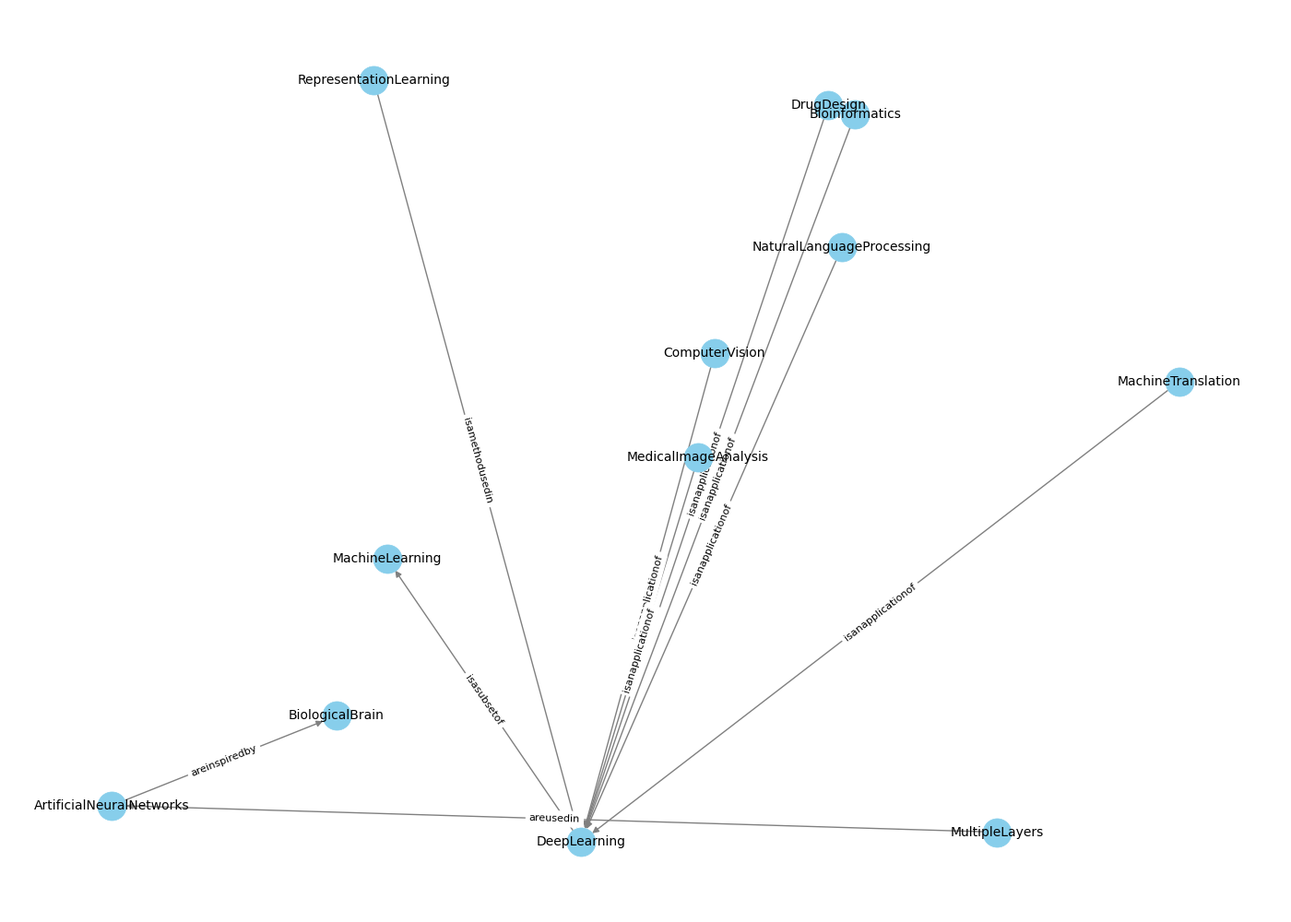
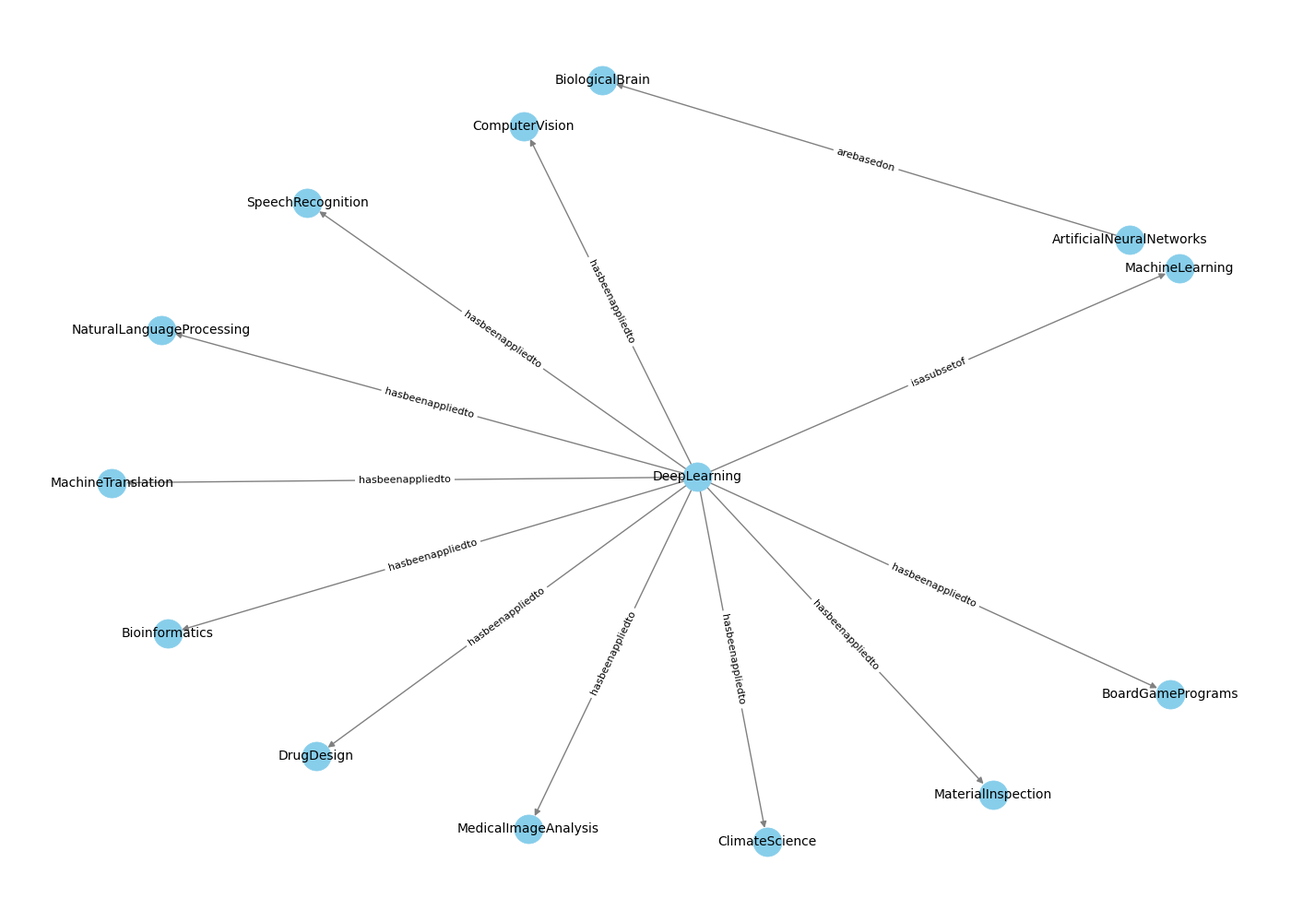
main working ready to show

diff --git a/KG/GPT/plots/knowledge_graph_extracted_text_from_mixtral-8x7b-instruct.html b/KG/GPT/plots/knowledge_graph_extracted_text_from_mixtral-8x7b-instruct.html
@@ -88,8 +88,8 @@
                   
 
                   // parsing and collecting nodes and edges from the python
-                  nodes = new vis.DataSet([{"color": "#97c2fc", "id": "Deeplearning", "label": "Deeplearning", "shape": "dot", "size": 10}, {"color": "#97c2fc", "id": "Machinelearningmethods", "label": "Machinelearningmethods", "shape": "dot", "size": 10}, {"color": "#97c2fc", "id": "ArtificialneuralnetworksANNs", "label": "ArtificialneuralnetworksANNs", "shape": "dot", "size": 10}, {"color": "#97c2fc", "id": "Multiplelayersinthenetwork", "label": "Multiplelayersinthenetwork", "shape": "dot", "size": 10}, {"color": "#97c2fc", "id": "Biologicalsystems", "label": "Biologicalsystems", "shape": "dot", "size": 10}, {"color": "#97c2fc", "id": "Biologicalbrains", "label": "Biologicalbrains", "shape": "dot", "size": 10}, {"color": "#97c2fc", "id": "Methodsusedindeeplearning", "label": "Methodsusedindeeplearning", "shape": "dot", "size": 10}, {"color": "#97c2fc", "id": "Supervised", "label": "Supervised", "shape": "dot", "size": 10}, {"color": "#97c2fc", "id": "Semisupervised", "label": "Semisupervised", "shape": "dot", "size": 10}, {"color": "#97c2fc", "id": "Unsupervised", "label": "Unsupervised", "shape": "dot", "size": 10}, {"color": "#97c2fc", "id": "Deeplearningarchitectures", "label": "Deeplearningarchitectures", "shape": "dot", "size": 10}, {"color": "#97c2fc", "id": "Computervision", "label": "Computervision", "shape": "dot", "size": 10}, {"color": "#97c2fc", "id": "Speechrecognition", "label": "Speechrecognition", "shape": "dot", "size": 10}, {"color": "#97c2fc", "id": "Naturallanguageprocessing", "label": "Naturallanguageprocessing", "shape": "dot", "size": 10}, {"color": "#97c2fc", "id": "Machinetranslation", "label": "Machinetranslation", "shape": "dot", "size": 10}, {"color": "#97c2fc", "id": "Bioinformatics", "label": "Bioinformatics", "shape": "dot", "size": 10}, {"color": "#97c2fc", "id": "Drugdesign", "label": "Drugdesign", "shape": "dot", "size": 10}, {"color": "#97c2fc", "id": "Medicalimageanalysis", "label": "Medicalimageanalysis", "shape": "dot", "size": 10}, {"color": "#97c2fc", "id": "Climatescience", "label": "Climatescience", "shape": "dot", "size": 10}, {"color": "#97c2fc", "id": "Materialinspection", "label": "Materialinspection", "shape": "dot", "size": 10}, {"color": "#97c2fc", "id": "Boardgameprograms", "label": "Boardgameprograms", "shape": "dot", "size": 10}, {"color": "#97c2fc", "id": "Artificialneuralnetworks", "label": "Artificialneuralnetworks", "shape": "dot", "size": 10}, {"color": "#97c2fc", "id": "Lowqualitymodelsforbrainfunction", "label": "Lowqualitymodelsforbrainfunction", "shape": "dot", "size": 10}]);
-                  edges = new vis.DataSet([{"from": "Deeplearning", "relation": "subsetof", "to": "Machinelearningmethods", "width": 1}, {"from": "Deeplearning", "relation": "basedon", "to": "ArtificialneuralnetworksANNs", "width": 1}, {"from": "Deeplearning", "relation": "uses", "to": "Multiplelayersinthenetwork", "width": 1}, {"from": "ArtificialneuralnetworksANNs", "relation": "inspiredby", "to": "Biologicalsystems", "width": 1}, {"from": "ArtificialneuralnetworksANNs", "relation": "havedifferencesfrom", "to": "Biologicalbrains", "width": 1}, {"from": "Methodsusedindeeplearning", "relation": "canbe", "to": "Supervised", "width": 1}, {"from": "Methodsusedindeeplearning", "relation": "canbe", "to": "Semisupervised", "width": 1}, {"from": "Methodsusedindeeplearning", "relation": "canbe", "to": "Unsupervised", "width": 1}, {"from": "Deeplearningarchitectures", "relation": "appliedto", "to": "Computervision", "width": 1}, {"from": "Deeplearningarchitectures", "relation": "appliedto", "to": "Speechrecognition", "width": 1}, {"from": "Deeplearningarchitectures", "relation": "appliedto", "to": "Naturallanguageprocessing", "width": 1}, {"from": "Deeplearningarchitectures", "relation": "appliedto", "to": "Machinetranslation", "width": 1}, {"from": "Deeplearningarchitectures", "relation": "appliedto", "to": "Bioinformatics", "width": 1}, {"from": "Deeplearningarchitectures", "relation": "appliedto", "to": "Drugdesign", "width": 1}, {"from": "Deeplearningarchitectures", "relation": "appliedto", "to": "Medicalimageanalysis", "width": 1}, {"from": "Deeplearningarchitectures", "relation": "appliedto", "to": "Climatescience", "width": 1}, {"from": "Deeplearningarchitectures", "relation": "appliedto", "to": "Materialinspection", "width": 1}, {"from": "Deeplearningarchitectures", "relation": "appliedto", "to": "Boardgameprograms", "width": 1}, {"from": "Artificialneuralnetworks", "relation": "seenas", "to": "Lowqualitymodelsforbrainfunction", "width": 1}]);
+                  nodes = new vis.DataSet([{"color": "#97c2fc", "id": "Deeplearning", "label": "Deeplearning", "shape": "dot", "size": 10}, {"color": "#97c2fc", "id": "Machinelearningmethods", "label": "Machinelearningmethods", "shape": "dot", "size": 10}, {"color": "#97c2fc", "id": "ArtificialneuralnetworksANNs", "label": "ArtificialneuralnetworksANNs", "shape": "dot", "size": 10}, {"color": "#97c2fc", "id": "Multiplelayersinthenetwork", "label": "Multiplelayersinthenetwork", "shape": "dot", "size": 10}, {"color": "#97c2fc", "id": "Artificialneuralnetworks", "label": "Artificialneuralnetworks", "shape": "dot", "size": 10}, {"color": "#97c2fc", "id": "Biologicalsystems", "label": "Biologicalsystems", "shape": "dot", "size": 10}, {"color": "#97c2fc", "id": "Biologicalbrains", "label": "Biologicalbrains", "shape": "dot", "size": 10}, {"color": "#97c2fc", "id": "Staticandsymbolic", "label": "Staticandsymbolic", "shape": "dot", "size": 10}, {"color": "#97c2fc", "id": "Lowqualitymodelsforbrainfunction", "label": "Lowqualitymodelsforbrainfunction", "shape": "dot", "size": 10}, {"color": "#97c2fc", "id": "Methodsusedindeeplearning", "label": "Methodsusedindeeplearning", "shape": "dot", "size": 10}, {"color": "#97c2fc", "id": "Supervised", "label": "Supervised", "shape": "dot", "size": 10}, {"color": "#97c2fc", "id": "Semisupervised", "label": "Semisupervised", "shape": "dot", "size": 10}, {"color": "#97c2fc", "id": "Unsupervised", "label": "Unsupervised", "shape": "dot", "size": 10}, {"color": "#97c2fc", "id": "Deeplearningarchitectures", "label": "Deeplearningarchitectures", "shape": "dot", "size": 10}, {"color": "#97c2fc", "id": "Deepneuralnetworks", "label": "Deepneuralnetworks", "shape": "dot", "size": 10}, {"color": "#97c2fc", "id": "Deepbeliefnetworks", "label": "Deepbeliefnetworks", "shape": "dot", "size": 10}, {"color": "#97c2fc", "id": "Recurrentneuralnetworks", "label": "Recurrentneuralnetworks", "shape": "dot", "size": 10}, {"color": "#97c2fc", "id": "Convolutionalneuralnetworks", "label": "Convolutionalneuralnetworks", "shape": "dot", "size": 10}, {"color": "#97c2fc", "id": "Transformers", "label": "Transformers", "shape": "dot", "size": 10}, {"color": "#97c2fc", "id": "Deeplearningapplications", "label": "Deeplearningapplications", "shape": "dot", "size": 10}, {"color": "#97c2fc", "id": "Computervision", "label": "Computervision", "shape": "dot", "size": 10}, {"color": "#97c2fc", "id": "Speechrecognition", "label": "Speechrecognition", "shape": "dot", "size": 10}, {"color": "#97c2fc", "id": "Naturallanguageprocessing", "label": "Naturallanguageprocessing", "shape": "dot", "size": 10}, {"color": "#97c2fc", "id": "Machinetranslation", "label": "Machinetranslation", "shape": "dot", "size": 10}, {"color": "#97c2fc", "id": "Bioinformatics", "label": "Bioinformatics", "shape": "dot", "size": 10}, {"color": "#97c2fc", "id": "Drugdesign", "label": "Drugdesign", "shape": "dot", "size": 10}, {"color": "#97c2fc", "id": "Medicalimageanalysis", "label": "Medicalimageanalysis", "shape": "dot", "size": 10}, {"color": "#97c2fc", "id": "Climatescience", "label": "Climatescience", "shape": "dot", "size": 10}, {"color": "#97c2fc", "id": "Materialinspection", "label": "Materialinspection", "shape": "dot", "size": 10}, {"color": "#97c2fc", "id": "Boardgameprograms", "label": "Boardgameprograms", "shape": "dot", "size": 10}, {"color": "#97c2fc", "id": "Biologicalbrain", "label": "Biologicalbrain", "shape": "dot", "size": 10}, {"color": "#97c2fc", "id": "isdynamicplasticandanalog", "label": "isdynamicplasticandanalog", "shape": "dot", "size": 10}]);
+                  edges = new vis.DataSet([{"from": "Deeplearning", "relation": "subsetof", "to": "Machinelearningmethods", "width": 1}, {"from": "Deeplearning", "relation": "basedon", "to": "ArtificialneuralnetworksANNs", "width": 1}, {"from": "Deeplearning", "relation": "uses", "to": "Multiplelayersinthenetwork", "width": 1}, {"from": "Artificialneuralnetworks", "relation": "inspiredby", "to": "Biologicalsystems", "width": 1}, {"from": "Artificialneuralnetworks", "relation": "havedifferencesfrom", "to": "Biologicalbrains", "width": 1}, {"from": "Artificialneuralnetworks", "relation": "tendtobe", "to": "Staticandsymbolic", "width": 1}, {"from": "Artificialneuralnetworks", "relation": "generallyseenas", "to": "Lowqualitymodelsforbrainfunction", "width": 1}, {"from": "Methodsusedindeeplearning", "relation": "canbe", "to": "Supervised", "width": 1}, {"from": "Methodsusedindeeplearning", "relation": "canbe", "to": "Semisupervised", "width": 1}, {"from": "Methodsusedindeeplearning", "relation": "canbe", "to": "Unsupervised", "width": 1}, {"from": "Deeplearningarchitectures", "relation": "include", "to": "Deepneuralnetworks", "width": 1}, {"from": "Deeplearningarchitectures", "relation": "include", "to": "Deepbeliefnetworks", "width": 1}, {"from": "Deeplearningarchitectures", "relation": "include", "to": "Recurrentneuralnetworks", "width": 1}, {"from": "Deeplearningarchitectures", "relation": "include", "to": "Convolutionalneuralnetworks", "width": 1}, {"from": "Deeplearningarchitectures", "relation": "include", "to": "Transformers", "width": 1}, {"from": "Deeplearningapplications", "relation": "include", "to": "Computervision", "width": 1}, {"from": "Deeplearningapplications", "relation": "include", "to": "Speechrecognition", "width": 1}, {"from": "Deeplearningapplications", "relation": "include", "to": "Naturallanguageprocessing", "width": 1}, {"from": "Deeplearningapplications", "relation": "include", "to": "Machinetranslation", "width": 1}, {"from": "Deeplearningapplications", "relation": "include", "to": "Bioinformatics", "width": 1}, {"from": "Deeplearningapplications", "relation": "include", "to": "Drugdesign", "width": 1}, {"from": "Deeplearningapplications", "relation": "include", "to": "Medicalimageanalysis", "width": 1}, {"from": "Deeplearningapplications", "relation": "include", "to": "Climatescience", "width": 1}, {"from": "Deeplearningapplications", "relation": "include", "to": "Materialinspection", "width": 1}, {"from": "Deeplearningapplications", "relation": "include", "to": "Boardgameprograms", "width": 1}, {"from": "Biologicalbrain", "relation": "ofmostlivingorganisms", "to": "isdynamicplasticandanalog", "width": 1}]);
 
                   nodeColors = {};
                   allNodes = nodes.get({ returnType: "Object" });

diff --git a/KG/GPT/plots/knowledge_graph_extracted_text_from_vicuna-13b.html b/KG/GPT/plots/knowledge_graph_extracted_text_from_vicuna-13b.html
@@ -88,8 +88,8 @@
                   
 
                   // parsing and collecting nodes and edges from the python
-                  nodes = new vis.DataSet([{"color": "#97c2fc", "id": "Deeplearningdeeplearning", "label": "Deeplearningdeeplearning", "shape": "dot", "size": 10}, {"color": "#97c2fc", "id": "machinelearningmethods", "label": "machinelearningmethods", "shape": "dot", "size": 10}, {"color": "#97c2fc", "id": "machinelearningmethodsmachinelearningmethods", "label": "machinelearningmethodsmachinelearningmethods", "shape": "dot", "size": 10}, {"color": "#97c2fc", "id": "basedonartificialneuralnetworksANNs", "label": "basedonartificialneuralnetworksANNs", "shape": "dot", "size": 10}, {"color": "#97c2fc", "id": "deepneuralnetworksdeepneuralnetworks", "label": "deepneuralnetworksdeepneuralnetworks", "shape": "dot", "size": 10}, {"color": "#97c2fc", "id": "deeplearningarchitectures", "label": "deeplearningarchitectures", "shape": "dot", "size": 10}, {"color": "#97c2fc", "id": "deepbeliefnetworksdeepbeliefnetworks", "label": "deepbeliefnetworksdeepbeliefnetworks", "shape": "dot", "size": 10}, {"color": "#97c2fc", "id": "recurrentneuralnetworksrecurrentneuralnetworks", "label": "recurrentneuralnetworksrecurrentneuralnetworks", "shape": "dot", "size": 10}, {"color": "#97c2fc", "id": "convolutionalneuralnetworksconvolutionalneuralnetworks", "label": "convolutionalneuralnetworksconvolutionalneuralnetworks", "shape": "dot", "size": 10}, {"color": "#97c2fc", "id": "transformerstransformers", "label": "transformerstransformers", "shape": "dot", "size": 10}, {"color": "#97c2fc", "id": "computervisioncomputervision", "label": "computervisioncomputervision", "shape": "dot", "size": 10}, {"color": "#97c2fc", "id": "speechrecognitionspeechrecognition", "label": "speechrecognitionspeechrecognition", "shape": "dot", "size": 10}, {"color": "#97c2fc", "id": "naturallanguageprocessingnaturallanguageprocessing", "label": "naturallanguageprocessingnaturallanguageprocessing", "shape": "dot", "size": 10}, {"color": "#97c2fc", "id": "machinetranslationmachinetranslation", "label": "machinetranslationmachinetranslation", "shape": "dot", "size": 10}, {"color": "#97c2fc", "id": "bioinformaticsbioinformatics", "label": "bioinformaticsbioinformatics", "shape": "dot", "size": 10}, {"color": "#97c2fc", "id": "drugdesigndrugdesign", "label": "drugdesigndrugdesign", "shape": "dot", "size": 10}, {"color": "#97c2fc", "id": "medicalimageanalysismedicalimageanalysis", "label": "medicalimageanalysismedicalimageanalysis", "shape": "dot", "size": 10}, {"color": "#97c2fc", "id": "climatescienceclimatescience", "label": "climatescienceclimatescience", "shape": "dot", "size": 10}, {"color": "#97c2fc", "id": "materialinspectionmaterialinspection", "label": "materialinspectionmaterialinspection", "shape": "dot", "size": 10}, {"color": "#97c2fc", "id": "boardgameprogramsboardgameprograms", "label": "boardgameprogramsboardgameprograms", "shape": "dot", "size": 10}, {"color": "#97c2fc", "id": "biologicalsystemsbiologicalsystems", "label": "biologicalsystemsbiologicalsystems", "shape": "dot", "size": 10}, {"color": "#97c2fc", "id": "artificialneuralnetworks", "label": "artificialneuralnetworks", "shape": "dot", "size": 10}, {"color": "#97c2fc", "id": "ANNsartificialneuralnetworksANNs", "label": "ANNsartificialneuralnetworksANNs", "shape": "dot", "size": 10}, {"color": "#97c2fc", "id": "staticandsymbolic", "label": "staticandsymbolic", "shape": "dot", "size": 10}, {"color": "#97c2fc", "id": "lowqualitymodelsforbrainfunction", "label": "lowqualitymodelsforbrainfunction", "shape": "dot", "size": 10}, {"color": "#97c2fc", "id": "biologicalbrainbiologicalbrain", "label": "biologicalbrainbiologicalbrain", "shape": "dot", "size": 10}, {"color": "#97c2fc", "id": "isdynamicplasticandanalog", "label": "isdynamicplasticandanalog", "shape": "dot", "size": 10}]);
-                  edges = new vis.DataSet([{"from": "Deeplearningdeeplearning", "relation": "isasubsetof", "to": "machinelearningmethods", "width": 1}, {"from": "machinelearningmethodsmachinelearningmethods", "relation": "haverepresentationlearning", "to": "basedonartificialneuralnetworksANNs", "width": 1}, {"from": "deepneuralnetworksdeepneuralnetworks", "relation": "areatypeof", "to": "deeplearningarchitectures", "width": 1}, {"from": "deepbeliefnetworksdeepbeliefnetworks", "relation": "areatypeof", "to": "deeplearningarchitectures", "width": 1}, {"from": "recurrentneuralnetworksrecurrentneuralnetworks", "relation": "areatypeof", "to": "deeplearningarchitectures", "width": 1}, {"from": "convolutionalneuralnetworksconvolutionalneuralnetworks", "relation": "areatypeof", "to": "deeplearningarchitectures", "width": 1}, {"from": "transformerstransformers", "relation": "areatypeof", "to": "deeplearningarchitectures", "width": 1}, {"from": "computervisioncomputervision", "relation": "hasbeenappliedto", "to": "deeplearningarchitectures", "width": 1}, {"from": "speechrecognitionspeechrecognition", "relation": "hasbeenappliedto", "to": "deeplearningarchitectures", "width": 1}, {"from": "naturallanguageprocessingnaturallanguageprocessing", "relation": "hasbeenappliedto", "to": "deeplearningarchitectures", "width": 1}, {"from": "machinetranslationmachinetranslation", "relation": "hasbeenappliedto", "to": "deeplearningarchitectures", "width": 1}, {"from": "bioinformaticsbioinformatics", "relation": "hasbeenappliedto", "to": "deeplearningarchitectures", "width": 1}, {"from": "drugdesigndrugdesign", "relation": "hasbeenappliedto", "to": "deeplearningarchitectures", "width": 1}, {"from": "medicalimageanalysismedicalimageanalysis", "relation": "hasbeenappliedto", "to": "deeplearningarchitectures", "width": 1}, {"from": "climatescienceclimatescience", "relation": "hasbeenappliedto", "to": "deeplearningarchitectures", "width": 1}, {"from": "materialinspectionmaterialinspection", "relation": "hasbeenappliedto", "to": "deeplearningarchitectures", "width": 1}, {"from": "boardgameprogramsboardgameprograms", "relation": "havebeenappliedto", "to": "deeplearningarchitectures", "width": 1}, {"from": "biologicalsystemsbiologicalsystems", "relation": "inspired", "to": "artificialneuralnetworks", "width": 1}, {"from": "ANNsartificialneuralnetworksANNs", "relation": "tendtobe", "to": "staticandsymbolic", "width": 1}, {"from": "ANNsartificialneuralnetworksANNs", "relation": "aregenerallyseenas", "to": "lowqualitymodelsforbrainfunction", "width": 1}, {"from": "biologicalbrainbiologicalbrain", "relation": "ofmostlivingorganisms", "to": "isdynamicplasticandanalog", "width": 1}]);
+                  nodes = new vis.DataSet([{"color": "#97c2fc", "id": "Deeplearningorganization", "label": "Deeplearningorganization", "shape": "dot", "size": 10}, {"color": "#97c2fc", "id": "machinelearning", "label": "machinelearning", "shape": "dot", "size": 10}, {"color": "#97c2fc", "id": "Deeplearningmethod", "label": "Deeplearningmethod", "shape": "dot", "size": 10}, {"color": "#97c2fc", "id": "artificialneuralnetworks", "label": "artificialneuralnetworks", "shape": "dot", "size": 10}, {"color": "#97c2fc", "id": "humanexpertperformance", "label": "humanexpertperformance", "shape": "dot", "size": 10}, {"color": "#97c2fc", "id": "Artificialneuralnetworkswereinspiredby", "label": "Artificialneuralnetworkswereinspiredby", "shape": "dot", "size": 10}, {"color": "#97c2fc", "id": "biologicalsystems", "label": "biologicalsystems", "shape": "dot", "size": 10}, {"color": "#97c2fc", "id": "Artificialneuralnetworksaregenerallyseenas", "label": "Artificialneuralnetworksaregenerallyseenas", "shape": "dot", "size": 10}, {"color": "#97c2fc", "id": "brainfunction", "label": "brainfunction", "shape": "dot", "size": 10}]);
+                  edges = new vis.DataSet([{"from": "Deeplearningorganization", "relation": "isasubsetof", "to": "machinelearning", "width": 1}, {"from": "Deeplearningmethod", "relation": "isbasedon", "to": "artificialneuralnetworks", "width": 1}, {"from": "Deeplearningmethod", "relation": "hasproducedresultscomparabletoandinsomecasessurpassing", "to": "humanexpertperformance", "width": 1}, {"from": "Artificialneuralnetworkswereinspiredby", "relation": "informationprocessinganddistributedcommunicationnodesin", "to": "biologicalsystems", "width": 1}, {"from": "Artificialneuralnetworksaregenerallyseenas", "relation": "lowqualitymodelsfor", "to": "brainfunction", "width": 1}]);
 
                   nodeColors = {};
                   allNodes = nodes.get({ returnType: "Object" });

diff --git a/KG/GPT/plots/knowledge_graph_extracted_text_from_llama-70b-chat.html b/KG/GPT/plots/knowledge_graph_extracted_text_from_llama-70b-chat.html
@@ -88,8 +88,8 @@
                   
 
                   // parsing and collecting nodes and edges from the python
-                  nodes = new vis.DataSet([{"color": "#97c2fc", "id": "Deeplearning", "label": "Deeplearning", "shape": "dot", "size": 10}, {"color": "#97c2fc", "id": "machinelearning", "label": "machinelearning", "shape": "dot", "size": 10}, {"color": "#97c2fc", "id": "Artificialneuralnetworks", "label": "Artificialneuralnetworks", "shape": "dot", "size": 10}, {"color": "#97c2fc", "id": "biologicalsystems", "label": "biologicalsystems", "shape": "dot", "size": 10}, {"color": "#97c2fc", "id": "Deepneuralnetworks", "label": "Deepneuralnetworks", "shape": "dot", "size": 10}, {"color": "#97c2fc", "id": "deeplearning", "label": "deeplearning", "shape": "dot", "size": 10}, {"color": "#97c2fc", "id": "Recurrentneuralnetworks", "label": "Recurrentneuralnetworks", "shape": "dot", "size": 10}, {"color": "#97c2fc", "id": "Convolutionalneuralnetworks", "label": "Convolutionalneuralnetworks", "shape": "dot", "size": 10}, {"color": "#97c2fc", "id": "Transformers", "label": "Transformers", "shape": "dot", "size": 10}, {"color": "#97c2fc", "id": "Computervision", "label": "Computervision", "shape": "dot", "size": 10}, {"color": "#97c2fc", "id": "Speechrecognition", "label": "Speechrecognition", "shape": "dot", "size": 10}, {"color": "#97c2fc", "id": "Naturallanguageprocessing", "label": "Naturallanguageprocessing", "shape": "dot", "size": 10}, {"color": "#97c2fc", "id": "Machinetranslation", "label": "Machinetranslation", "shape": "dot", "size": 10}, {"color": "#97c2fc", "id": "Bioinformatics", "label": "Bioinformatics", "shape": "dot", "size": 10}, {"color": "#97c2fc", "id": "Drugdesign", "label": "Drugdesign", "shape": "dot", "size": 10}, {"color": "#97c2fc", "id": "Medicalimageanalysis", "label": "Medicalimageanalysis", "shape": "dot", "size": 10}, {"color": "#97c2fc", "id": "Climatescience", "label": "Climatescience", "shape": "dot", "size": 10}, {"color": "#97c2fc", "id": "Materialinspection", "label": "Materialinspection", "shape": "dot", "size": 10}, {"color": "#97c2fc", "id": "Boardgameprograms", "label": "Boardgameprograms", "shape": "dot", "size": 10}]);
-                  edges = new vis.DataSet([{"from": "Deeplearning", "relation": "isasubsetof", "to": "machinelearning", "width": 1}, {"from": "Artificialneuralnetworks", "relation": "inspiredby", "to": "biologicalsystems", "width": 1}, {"from": "Deepneuralnetworks", "relation": "isatypeof", "to": "deeplearning", "width": 1}, {"from": "Recurrentneuralnetworks", "relation": "isatypeof", "to": "deeplearning", "width": 1}, {"from": "Convolutionalneuralnetworks", "relation": "isatypeof", "to": "deeplearning", "width": 1}, {"from": "Transformers", "relation": "isatypeof", "to": "deeplearning", "width": 1}, {"from": "Computervision", "relation": "hasbeenappliedto", "to": "deeplearning", "width": 1}, {"from": "Speechrecognition", "relation": "hasbeenappliedto", "to": "deeplearning", "width": 1}, {"from": "Naturallanguageprocessing", "relation": "hasbeenappliedto", "to": "deeplearning", "width": 1}, {"from": "Machinetranslation", "relation": "hasbeenappliedto", "to": "deeplearning", "width": 1}, {"from": "Bioinformatics", "relation": "hasbeenappliedto", "to": "deeplearning", "width": 1}, {"from": "Drugdesign", "relation": "hasbeenappliedto", "to": "deeplearning", "width": 1}, {"from": "Medicalimageanalysis", "relation": "hasbeenappliedto", "to": "deeplearning", "width": 1}, {"from": "Climatescience", "relation": "hasbeenappliedto", "to": "deeplearning", "width": 1}, {"from": "Materialinspection", "relation": "hasbeenappliedto", "to": "deeplearning", "width": 1}, {"from": "Boardgameprograms", "relation": "hasbeenappliedto", "to": "deeplearning", "width": 1}]);
+                  nodes = new vis.DataSet([{"color": "#97c2fc", "id": "HerearetheextractedtriplesformattedasnamedentityA", "label": "HerearetheextractedtriplesformattedasnamedentityA", "shape": "dot", "size": 10}, {"color": "#97c2fc", "id": "namedentityBbasedontheprovidedtestimony", "label": "namedentityBbasedontheprovidedtestimony", "shape": "dot", "size": 10}, {"color": "#97c2fc", "id": "Deeplearning", "label": "Deeplearning", "shape": "dot", "size": 10}, {"color": "#97c2fc", "id": "machinelearning", "label": "machinelearning", "shape": "dot", "size": 10}, {"color": "#97c2fc", "id": "Artificialneuralnetworks", "label": "Artificialneuralnetworks", "shape": "dot", "size": 10}, {"color": "#97c2fc", "id": "biologicalsystems", "label": "biologicalsystems", "shape": "dot", "size": 10}, {"color": "#97c2fc", "id": "lowqualitymodelsforbrainfunction", "label": "lowqualitymodelsforbrainfunction", "shape": "dot", "size": 10}, {"color": "#97c2fc", "id": "Deepneuralnetworks", "label": "Deepneuralnetworks", "shape": "dot", "size": 10}, {"color": "#97c2fc", "id": "computervision", "label": "computervision", "shape": "dot", "size": 10}, {"color": "#97c2fc", "id": "Recurrentneuralnetworks", "label": "Recurrentneuralnetworks", "shape": "dot", "size": 10}, {"color": "#97c2fc", "id": "speechrecognition", "label": "speechrecognition", "shape": "dot", "size": 10}, {"color": "#97c2fc", "id": "Convolutionalneuralnetworks", "label": "Convolutionalneuralnetworks", "shape": "dot", "size": 10}, {"color": "#97c2fc", "id": "naturallanguageprocessing", "label": "naturallanguageprocessing", "shape": "dot", "size": 10}, {"color": "#97c2fc", "id": "Transformers", "label": "Transformers", "shape": "dot", "size": 10}, {"color": "#97c2fc", "id": "machinetranslation", "label": "machinetranslation", "shape": "dot", "size": 10}, {"color": "#97c2fc", "id": "Bioinformatics", "label": "Bioinformatics", "shape": "dot", "size": 10}, {"color": "#97c2fc", "id": "drugdesign", "label": "drugdesign", "shape": "dot", "size": 10}, {"color": "#97c2fc", "id": "Medicalimageanalysis", "label": "Medicalimageanalysis", "shape": "dot", "size": 10}, {"color": "#97c2fc", "id": "climatescience", "label": "climatescience", "shape": "dot", "size": 10}, {"color": "#97c2fc", "id": "Materialinspection", "label": "Materialinspection", "shape": "dot", "size": 10}, {"color": "#97c2fc", "id": "boardgameprograms", "label": "boardgameprograms", "shape": "dot", "size": 10}]);
+                  edges = new vis.DataSet([{"from": "HerearetheextractedtriplesformattedasnamedentityA", "relation": "relation", "to": "namedentityBbasedontheprovidedtestimony", "width": 1}, {"from": "Deeplearning", "relation": "isasubsetof", "to": "machinelearning", "width": 1}, {"from": "Artificialneuralnetworks", "relation": "inspiredby", "to": "biologicalsystems", "width": 1}, {"from": "Artificialneuralnetworks", "relation": "aregenerallyseenas", "to": "lowqualitymodelsforbrainfunction", "width": 1}, {"from": "Deepneuralnetworks", "relation": "havebeenappliedto", "to": "computervision", "width": 1}, {"from": "Recurrentneuralnetworks", "relation": "havebeenappliedto", "to": "speechrecognition", "width": 1}, {"from": "Convolutionalneuralnetworks", "relation": "havebeenappliedto", "to": "naturallanguageprocessing", "width": 1}, {"from": "Transformers", "relation": "havebeenappliedto", "to": "machinetranslation", "width": 1}, {"from": "Bioinformatics", "relation": "havebeenappliedto", "to": "drugdesign", "width": 1}, {"from": "Medicalimageanalysis", "relation": "havebeenappliedto", "to": "climatescience", "width": 1}, {"from": "Materialinspection", "relation": "havebeenappliedto", "to": "boardgameprograms", "width": 1}]);
 
                   nodeColors = {};
                   allNodes = nodes.get({ returnType: "Object" });

diff --git a/KG/GPT/plots/knowledge_graph_extracted_text_from_mistral-7b-instruct.html b/KG/GPT/plots/knowledge_graph_extracted_text_from_mistral-7b-instruct.html
@@ -88,8 +88,8 @@
                   
 
                   // parsing and collecting nodes and edges from the python
-                  nodes = new vis.DataSet([{"color": "#97c2fc", "id": "Deeplearning", "label": "Deeplearning", "shape": "dot", "size": 10}, {"color": "#97c2fc", "id": "Machinelearningmethods", "label": "Machinelearningmethods", "shape": "dot", "size": 10}, {"color": "#97c2fc", "id": "Artificialneuralnetworks", "label": "Artificialneuralnetworks", "shape": "dot", "size": 10}, {"color": "#97c2fc", "id": "Computervision", "label": "Computervision", "shape": "dot", "size": 10}, {"color": "#97c2fc", "id": "Speechrecognition", "label": "Speechrecognition", "shape": "dot", "size": 10}, {"color": "#97c2fc", "id": "Naturallanguageprocessing", "label": "Naturallanguageprocessing", "shape": "dot", "size": 10}, {"color": "#97c2fc", "id": "Machinetranslation", "label": "Machinetranslation", "shape": "dot", "size": 10}, {"color": "#97c2fc", "id": "Bioinformatics", "label": "Bioinformatics", "shape": "dot", "size": 10}, {"color": "#97c2fc", "id": "Drugdesign", "label": "Drugdesign", "shape": "dot", "size": 10}, {"color": "#97c2fc", "id": "Medicalimageanalysis", "label": "Medicalimageanalysis", "shape": "dot", "size": 10}, {"color": "#97c2fc", "id": "Climatescience", "label": "Climatescience", "shape": "dot", "size": 10}, {"color": "#97c2fc", "id": "Materialinspection", "label": "Materialinspection", "shape": "dot", "size": 10}, {"color": "#97c2fc", "id": "Boardgameprograms", "label": "Boardgameprograms", "shape": "dot", "size": 10}, {"color": "#97c2fc", "id": "Biologicalsystems", "label": "Biologicalsystems", "shape": "dot", "size": 10}, {"color": "#97c2fc", "id": "Biologicalbrains", "label": "Biologicalbrains", "shape": "dot", "size": 10}, {"color": "#97c2fc", "id": "Lowqualitymodelsforbrainfunction", "label": "Lowqualitymodelsforbrainfunction", "shape": "dot", "size": 10}]);
-                  edges = new vis.DataSet([{"from": "Deeplearning", "relation": "isasubsetof", "to": "Machinelearningmethods", "width": 1}, {"from": "Deeplearning", "relation": "uses", "to": "Artificialneuralnetworks", "width": 1}, {"from": "Deeplearning", "relation": "hasproducedresultscomparabletoorsurpassinghumanexpertperformancein", "to": "Computervision", "width": 1}, {"from": "Deeplearning", "relation": "hasproducedresultscomparabletoorsurpassinghumanexpertperformancein", "to": "Speechrecognition", "width": 1}, {"from": "Deeplearning", "relation": "hasproducedresultscomparabletoorsurpassinghumanexpertperformancein", "to": "Naturallanguageprocessing", "width": 1}, {"from": "Deeplearning", "relation": "hasproducedresultscomparabletoorsurpassinghumanexpertperformancein", "to": "Machinetranslation", "width": 1}, {"from": "Deeplearning", "relation": "hasproducedresultscomparabletoorsurpassinghumanexpertperformancein", "to": "Bioinformatics", "width": 1}, {"from": "Deeplearning", "relation": "hasproducedresultscomparabletoorsurpassinghumanexpertperformancein", "to": "Drugdesign", "width": 1}, {"from": "Deeplearning", "relation": "hasproducedresultscomparabletoorsurpassinghumanexpertperformancein", "to": "Medicalimageanalysis", "width": 1}, {"from": "Deeplearning", "relation": "hasproducedresultscomparabletoorsurpassinghumanexpertperformancein", "to": "Climatescience", "width": 1}, {"from": "Deeplearning", "relation": "hasproducedresultscomparabletoorsurpassinghumanexpertperformancein", "to": "Materialinspection", "width": 1}, {"from": "Deeplearning", "relation": "hasproducedresultscomparabletoorsurpassinghumanexpertperformancein", "to": "Boardgameprograms", "width": 1}, {"from": "Artificialneuralnetworks", "relation": "areinspiredby", "to": "Biologicalsystems", "width": 1}, {"from": "Artificialneuralnetworks", "relation": "aredifferentfrom", "to": "Biologicalbrains", "width": 1}, {"from": "Artificialneuralnetworks", "relation": "areseenas", "to": "Lowqualitymodelsforbrainfunction", "width": 1}]);
+                  nodes = new vis.DataSet([{"color": "#97c2fc", "id": "Deeplearning", "label": "Deeplearning", "shape": "dot", "size": 10}, {"color": "#97c2fc", "id": "Machinelearningmethods", "label": "Machinelearningmethods", "shape": "dot", "size": 10}, {"color": "#97c2fc", "id": "Artificialneuralnetworks", "label": "Artificialneuralnetworks", "shape": "dot", "size": 10}, {"color": "#97c2fc", "id": "Computervision", "label": "Computervision", "shape": "dot", "size": 10}, {"color": "#97c2fc", "id": "Speechrecognition", "label": "Speechrecognition", "shape": "dot", "size": 10}, {"color": "#97c2fc", "id": "Naturallanguageprocessing", "label": "Naturallanguageprocessing", "shape": "dot", "size": 10}, {"color": "#97c2fc", "id": "Machinetranslation", "label": "Machinetranslation", "shape": "dot", "size": 10}, {"color": "#97c2fc", "id": "Bioinformatics", "label": "Bioinformatics", "shape": "dot", "size": 10}, {"color": "#97c2fc", "id": "Drugdesign", "label": "Drugdesign", "shape": "dot", "size": 10}, {"color": "#97c2fc", "id": "Medicalimageanalysis", "label": "Medicalimageanalysis", "shape": "dot", "size": 10}, {"color": "#97c2fc", "id": "Climatescience", "label": "Climatescience", "shape": "dot", "size": 10}, {"color": "#97c2fc", "id": "Materialinspection", "label": "Materialinspection", "shape": "dot", "size": 10}, {"color": "#97c2fc", "id": "Boardgameprograms", "label": "Boardgameprograms", "shape": "dot", "size": 10}, {"color": "#97c2fc", "id": "Biologicalsystems", "label": "Biologicalsystems", "shape": "dot", "size": 10}]);
+                  edges = new vis.DataSet([{"from": "Deeplearning", "relation": "isasubsetof", "to": "Machinelearningmethods", "width": 1}, {"from": "Deeplearning", "relation": "uses", "to": "Artificialneuralnetworks", "width": 1}, {"from": "Deeplearning", "relation": "hasproducedresultscomparabletoorsurpassinghumanexpertperformancein", "to": "Computervision", "width": 1}, {"from": "Deeplearning", "relation": "hasproducedresultscomparabletoorsurpassinghumanexpertperformancein", "to": "Speechrecognition", "width": 1}, {"from": "Deeplearning", "relation": "hasproducedresultscomparabletoorsurpassinghumanexpertperformancein", "to": "Naturallanguageprocessing", "width": 1}, {"from": "Deeplearning", "relation": "hasproducedresultscomparabletoorsurpassinghumanexpertperformancein", "to": "Machinetranslation", "width": 1}, {"from": "Deeplearning", "relation": "hasproducedresultscomparabletoorsurpassinghumanexpertperformancein", "to": "Bioinformatics", "width": 1}, {"from": "Deeplearning", "relation": "hasproducedresultscomparabletoorsurpassinghumanexpertperformancein", "to": "Drugdesign", "width": 1}, {"from": "Deeplearning", "relation": "hasproducedresultscomparabletoorsurpassinghumanexpertperformancein", "to": "Medicalimageanalysis", "width": 1}, {"from": "Deeplearning", "relation": "hasproducedresultscomparabletoorsurpassinghumanexpertperformancein", "to": "Climatescience", "width": 1}, {"from": "Deeplearning", "relation": "hasproducedresultscomparabletoorsurpassinghumanexpertperformancein", "to": "Materialinspection", "width": 1}, {"from": "Deeplearning", "relation": "hasproducedresultscomparabletoorsurpassinghumanexpertperformancein", "to": "Boardgameprograms", "width": 1}, {"from": "Artificialneuralnetworks", "relation": "areinspiredby", "to": "Biologicalsystems", "width": 1}]);
 
                   nodeColors = {};
                   allNodes = nodes.get({ returnType: "Object" });

diff --git a/KG/GPT/plots/knowledge_graph_extracted_text_from_llama-13b-chat.html b/KG/GPT/plots/knowledge_graph_extracted_text_from_llama-13b-chat.html
@@ -88,8 +88,8 @@
                   
 
                   // parsing and collecting nodes and edges from the python
-                  nodes = new vis.DataSet([{"color": "#97c2fc", "id": "DeepLearning", "label": "DeepLearning", "shape": "dot", "size": 10}, {"color": "#97c2fc", "id": "MachineLearning", "label": "MachineLearning", "shape": "dot", "size": 10}, {"color": "#97c2fc", "id": "ArtificialNeuralNetworks", "label": "ArtificialNeuralNetworks", "shape": "dot", "size": 10}, {"color": "#97c2fc", "id": "BiologicalBrain", "label": "BiologicalBrain", "shape": "dot", "size": 10}, {"color": "#97c2fc", "id": "MultipleLayers", "label": "MultipleLayers", "shape": "dot", "size": 10}, {"color": "#97c2fc", "id": "RepresentationLearning", "label": "RepresentationLearning", "shape": "dot", "size": 10}, {"color": "#97c2fc", "id": "ComputerVision", "label": "ComputerVision", "shape": "dot", "size": 10}, {"color": "#97c2fc", "id": "NaturalLanguageProcessing", "label": "NaturalLanguageProcessing", "shape": "dot", "size": 10}, {"color": "#97c2fc", "id": "MachineTranslation", "label": "MachineTranslation", "shape": "dot", "size": 10}, {"color": "#97c2fc", "id": "Bioinformatics", "label": "Bioinformatics", "shape": "dot", "size": 10}, {"color": "#97c2fc", "id": "DrugDesign", "label": "DrugDesign", "shape": "dot", "size": 10}, {"color": "#97c2fc", "id": "MedicalImageAnalysis", "label": "MedicalImageAnalysis", "shape": "dot", "size": 10}]);
-                  edges = new vis.DataSet([{"from": "DeepLearning", "relation": "isasubsetof", "to": "MachineLearning", "width": 1}, {"from": "ArtificialNeuralNetworks", "relation": "areinspiredby", "to": "BiologicalBrain", "width": 1}, {"from": "MultipleLayers", "relation": "areusedin", "to": "ArtificialNeuralNetworks", "width": 1}, {"from": "RepresentationLearning", "relation": "isamethodusedin", "to": "DeepLearning", "width": 1}, {"from": "ComputerVision", "relation": "isanapplicationof", "to": "DeepLearning", "width": 1}, {"from": "NaturalLanguageProcessing", "relation": "isanapplicationof", "to": "DeepLearning", "width": 1}, {"from": "MachineTranslation", "relation": "isanapplicationof", "to": "DeepLearning", "width": 1}, {"from": "Bioinformatics", "relation": "isanapplicationof", "to": "DeepLearning", "width": 1}, {"from": "DrugDesign", "relation": "isanapplicationof", "to": "DeepLearning", "width": 1}, {"from": "MedicalImageAnalysis", "relation": "isanapplicationof", "to": "DeepLearning", "width": 1}]);
+                  nodes = new vis.DataSet([{"color": "#97c2fc", "id": "DeepLearning", "label": "DeepLearning", "shape": "dot", "size": 10}, {"color": "#97c2fc", "id": "MachineLearning", "label": "MachineLearning", "shape": "dot", "size": 10}, {"color": "#97c2fc", "id": "ComputerVision", "label": "ComputerVision", "shape": "dot", "size": 10}, {"color": "#97c2fc", "id": "SpeechRecognition", "label": "SpeechRecognition", "shape": "dot", "size": 10}, {"color": "#97c2fc", "id": "NaturalLanguageProcessing", "label": "NaturalLanguageProcessing", "shape": "dot", "size": 10}, {"color": "#97c2fc", "id": "MachineTranslation", "label": "MachineTranslation", "shape": "dot", "size": 10}, {"color": "#97c2fc", "id": "Bioinformatics", "label": "Bioinformatics", "shape": "dot", "size": 10}, {"color": "#97c2fc", "id": "DrugDesign", "label": "DrugDesign", "shape": "dot", "size": 10}, {"color": "#97c2fc", "id": "MedicalImageAnalysis", "label": "MedicalImageAnalysis", "shape": "dot", "size": 10}, {"color": "#97c2fc", "id": "ClimateScience", "label": "ClimateScience", "shape": "dot", "size": 10}, {"color": "#97c2fc", "id": "MaterialInspection", "label": "MaterialInspection", "shape": "dot", "size": 10}, {"color": "#97c2fc", "id": "BoardGamePrograms", "label": "BoardGamePrograms", "shape": "dot", "size": 10}, {"color": "#97c2fc", "id": "ArtificialNeuralNetworks", "label": "ArtificialNeuralNetworks", "shape": "dot", "size": 10}, {"color": "#97c2fc", "id": "BiologicalBrain", "label": "BiologicalBrain", "shape": "dot", "size": 10}]);
+                  edges = new vis.DataSet([{"from": "DeepLearning", "relation": "isasubsetof", "to": "MachineLearning", "width": 1}, {"from": "DeepLearning", "relation": "hasbeenappliedto", "to": "ComputerVision", "width": 1}, {"from": "DeepLearning", "relation": "hasbeenappliedto", "to": "SpeechRecognition", "width": 1}, {"from": "DeepLearning", "relation": "hasbeenappliedto", "to": "NaturalLanguageProcessing", "width": 1}, {"from": "DeepLearning", "relation": "hasbeenappliedto", "to": "MachineTranslation", "width": 1}, {"from": "DeepLearning", "relation": "hasbeenappliedto", "to": "Bioinformatics", "width": 1}, {"from": "DeepLearning", "relation": "hasbeenappliedto", "to": "DrugDesign", "width": 1}, {"from": "DeepLearning", "relation": "hasbeenappliedto", "to": "MedicalImageAnalysis", "width": 1}, {"from": "DeepLearning", "relation": "hasbeenappliedto", "to": "ClimateScience", "width": 1}, {"from": "DeepLearning", "relation": "hasbeenappliedto", "to": "MaterialInspection", "width": 1}, {"from": "DeepLearning", "relation": "hasbeenappliedto", "to": "BoardGamePrograms", "width": 1}, {"from": "ArtificialNeuralNetworks", "relation": "arebasedon", "to": "BiologicalBrain", "width": 1}]);
 
                   nodeColors = {};
                   allNodes = nodes.get({ returnType: "Object" });

diff --git a/KG/GPT/graph_stats.py b/KG/GPT/graph_stats.py
@@ -34,12 +34,8 @@ def calculate_and_plot_metrics(G, title):
     plt.legend()
     plt.show()
 
-    # Clustering coefficient
-    clustering = nx.average_clustering(G)
-    print(f"[{title}] Average Clustering Coefficient: {clustering:.4f}")
-
     # Diameter and Average Path Length (for connected components)
-    if nx.is_connected(G):
+    if nx.is_strongly_connected(G):
         diameter = nx.diameter(G)
         avg_path_length = nx.average_shortest_path_length(G)
         print(f"[{title}] Diameter: {diameter}")
@@ -122,31 +118,34 @@ def visualize_embeddings(embeddings, title):
     plt.show()
 
 
-# Example usage:
-G1 = nx.gnp_random_graph(100, 0.1, seed=42)
-G2 = nx.gnp_random_graph(100, 0.5, seed=42)
+"""
+def test():
+    # Example usage:
+    G1 = nx.gnp_random_graph(100, 0.1, seed=42)
+    G2 = nx.gnp_random_graph(100, 0.5, seed=42)
 
-calculate_and_plot_metrics(G1, "Graph 1")
-calculate_and_plot_metrics(G2, "Graph 2")
+    calculate_and_plot_metrics(G1, "Graph 1")
+    calculate_and_plot_metrics(G2, "Graph 2")
 
-check_isomorphism(G1, G2)
+    check_isomorphism(G1, G2)
 
-# Spectral analysis
-L1 = nx.laplacian_matrix(G1).toarray()
-L2 = nx.laplacian_matrix(G2).toarray()
-plot_spectrum(L1, "Graph 1")
-plot_spectrum(L2, "Graph 2")
+    # Spectral analysis
+    L1 = nx.laplacian_matrix(G1).toarray()
+    L2 = nx.laplacian_matrix(G2).toarray()
+    plot_spectrum(L1, "Graph 1")
+    plot_spectrum(L2, "Graph 2")
 
-embeddings_G1 = generate_embeddings(G1)
-embeddings_G2 = generate_embeddings(G2)
+    embeddings_G1 = generate_embeddings(G1)
+    embeddings_G2 = generate_embeddings(G2)
 
-compare_embeddings(embeddings_G1, embeddings_G2)
+    compare_embeddings(embeddings_G1, embeddings_G2)
 
-analyze_connected_components(G1, "Graph 1")
-analyze_connected_components(G2, "Graph 2")
+    analyze_connected_components(G1, "Graph 1")
+    analyze_connected_components(G2, "Graph 2")
 
-# detect_and_analyze_communities(G1, "Graph 1")
-# detect_and_analyze_communities(G2, "Graph 2")
+    # detect_and_analyze_communities(G1, "Graph 1")
+    # detect_and_analyze_communities(G2, "Graph 2")
 
-visualize_embeddings(embeddings_G1, "Graph 1")  # trash
-visualize_embeddings(embeddings_G2, "Graph 2")
+    visualize_embeddings(embeddings_G1, "Graph 1")  # trash
+    visualize_embeddings(embeddings_G2, "Graph 2")
+"""

diff --git a/KG/GPT/ontology_interrogation.py b/KG/GPT/ontology_interrogation.py
@@ -5,17 +5,52 @@ def interrogate():
     g = Graph()
     g.parse("turtle/ontology_extracted_text_from_GPT.ttl", format="ttl")
 
-    # Assuming g is your RDFLib Graph containing the ontology
-    sparql_query = """
+    sparql_query_deep_based_on = """
     PREFIX ns1: <http://example.org/myontology/>
-    
-    SELECT ?subject ?application
+
+    SELECT ?basedOn
     WHERE {
-      ?subject ns1:issoldas ?app .
-      BIND(STRAFTER(STR(?app), STR(ns1:)) AS ?application)
+      ns1:Deeplearning ns1:basedon ?basedOn .
     }
     """
 
-    # Execute the query
-    for row in g.query(sparql_query):
+    for row in g.query(sparql_query_deep_based_on):
+        print(f"Deep Learning is based on: {row.basedOn}")
+
+    sparql_query_applications = """
+    PREFIX ns1: <http://example.org/myontology/>
+
+    SELECT ?application
+    WHERE {
+      ns1:Deeplearningarchitectures ns1:havebeenappliedto ?application .
+    }
+    """
+
+    for row in g.query(sparql_query_applications):
         print(f"Application: {row.application}")
+
+    sparql_query_inspirations = """
+    PREFIX ns1: <http://example.org/myontology/>
+
+    SELECT ?inspiration
+    WHERE {
+      ns1:Artificialneuralnetworks ns1:wereinspiredby ?inspiration .
+    }
+    """
+
+    for row in g.query(sparql_query_inspirations):
+        print(f"Inspiration: {row.inspiration}")
+
+    sparql_query_characteristics = """
+    PREFIX ns1: <http://example.org/myontology/>
+
+    SELECT ?characteristic
+    WHERE {
+      ns1:Artificialneuralnetworks ns1:tendtobe ?characteristic .
+    }
+    """
+
+    for row in g.query(sparql_query_characteristics):
+        print(f"Characteristic: {row.characteristic}")
+
+

diff --git a/KG/GPT/KG.py b/KG/GPT/KG.py
@@ -67,12 +67,12 @@ def KG_creation(filename):
         G.add_edge(subject, object, relation=relation)
 
     # Choose a layout
-    pos = nx.random_layout(G)  # Adjust the spacing between nodes as needed
+    pos = nx.kamada_kawai_layout(G)  # Adjust the spacing between nodes as needed
 
     # Draw the graph
     plt.figure(figsize=(14, 10))
-    nx.draw(G, pos, with_labels=True, node_color='skyblue', node_size=500,
-            edge_color='gray', linewidths=0.5, font_size=10)
+    nx.draw(G, pos, with_labels=True, node_color='skyblue', node_size=1000,
+            edge_color='gray', linewidths=0.7, font_size=14)
 
     # Draw edge labels
     edge_labels = dict([((u, v,), d['relation'])
@@ -88,6 +88,8 @@ def KG_creation(filename):
 
     visualize_with_pyvis(G, 'knowledge_graph' + filename_without_extension + '.html', filename_without_extension)
 
+    return G
+
 
 def visualize_with_pyvis(g, output_file, filename_without_extension):
     """Convert networkx graph to a pyvis network graph and visualize it."""
@@ -96,5 +98,3 @@ def visualize_with_pyvis(g, output_file, filename_without_extension):
     nt.from_nx(g)
     # Set visualization options if needed
     nt.save_graph('plots/knowledge_graph_' + filename_without_extension + '.html')
-
-

diff --git a/KG/GPT/main.py b/KG/GPT/main.py
@@ -1,11 +1,12 @@
 import tripletsExtractor as te
 import KG as kg
 import ontology_interrogation as oi
+import graph_stats as gs
 
-
-filename = ["extracted_text_from_GPT.txt", "extracted_text_from_llama-13b-chat.txt", "extracted_text_from_llama-70b-chat.txt",
-            "extracted_text_from_mistral-7b-instruct.txt", "extracted_text_from_mixtral-8x7b-instruct.txt", "extracted_text_from_vicuna-13b.txt"]
-
+filename = ["extracted_text_from_GPT.txt", "extracted_text_from_llama-13b-chat.txt",
+            "extracted_text_from_llama-70b-chat.txt",
+            "extracted_text_from_mistral-7b-instruct.txt", "extracted_text_from_mixtral-8x7b-instruct.txt",
+            "extracted_text_from_vicuna-13b.txt"]
 
 # Extract triplets from Wikipedia
 topic = "deep learning"
@@ -15,6 +16,8 @@ te.GPTResponse(topic)
 
 # Create KG from triplets
 for file in filename:
-    kg.KG_creation(file)
+    g = kg.KG_creation(file)
+    gs.calculate_and_plot_metrics(g, file)
+    #gs.plot_spectrum(g, file)
 
 oi.interrogate()

diff --git a/KG/GPT/tripletsExtractor.py b/KG/GPT/tripletsExtractor.py
@@ -3,7 +3,7 @@ from openai import OpenAI
 import os
 import openai
 from wikipedia import wikipedia
-from langchain.chat_models import ChatOpenAI
+from langchain_community.chat_models import ChatOpenAI
 
 # Configuration settings
 os.environ["OPENAI_API_KEY"] = "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"
